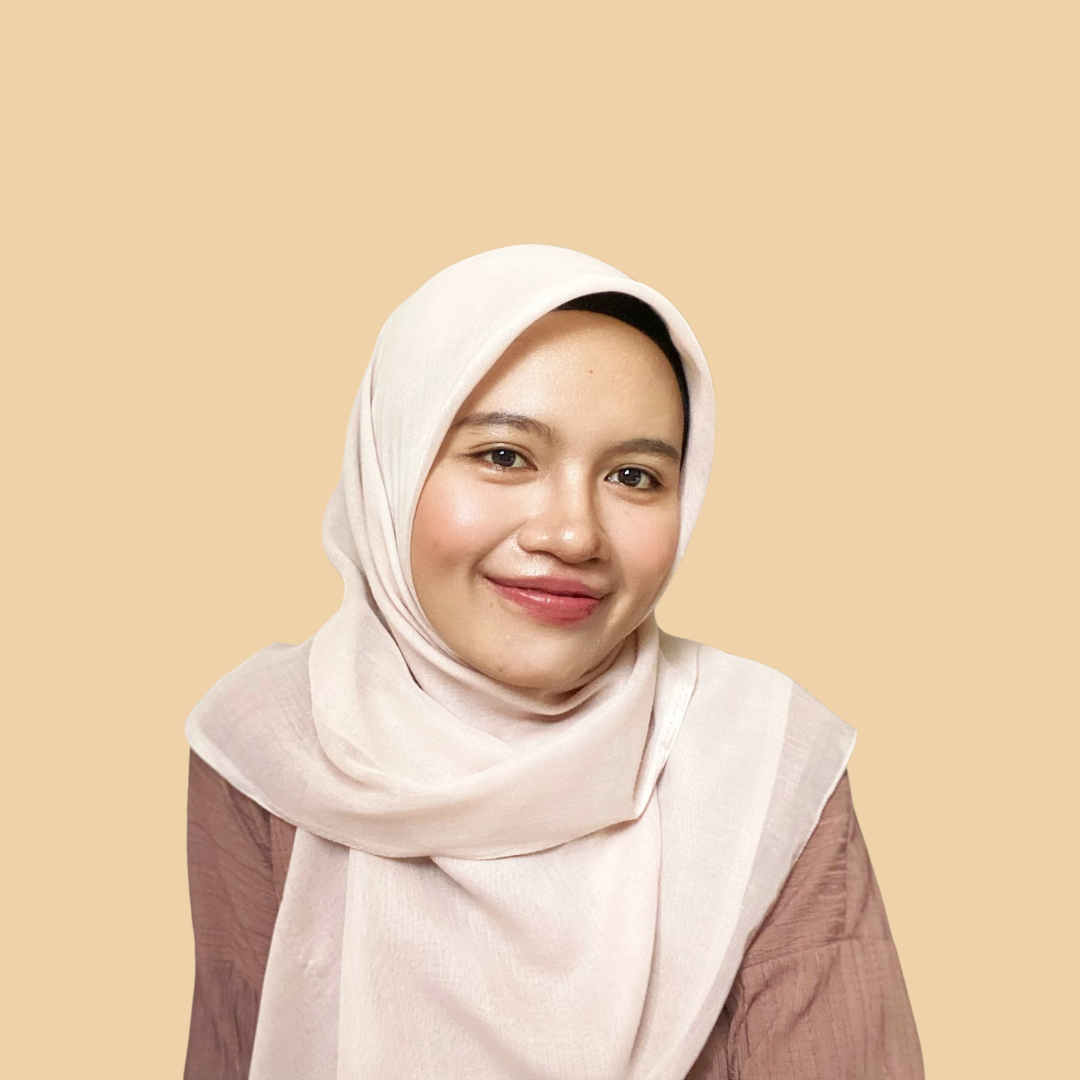
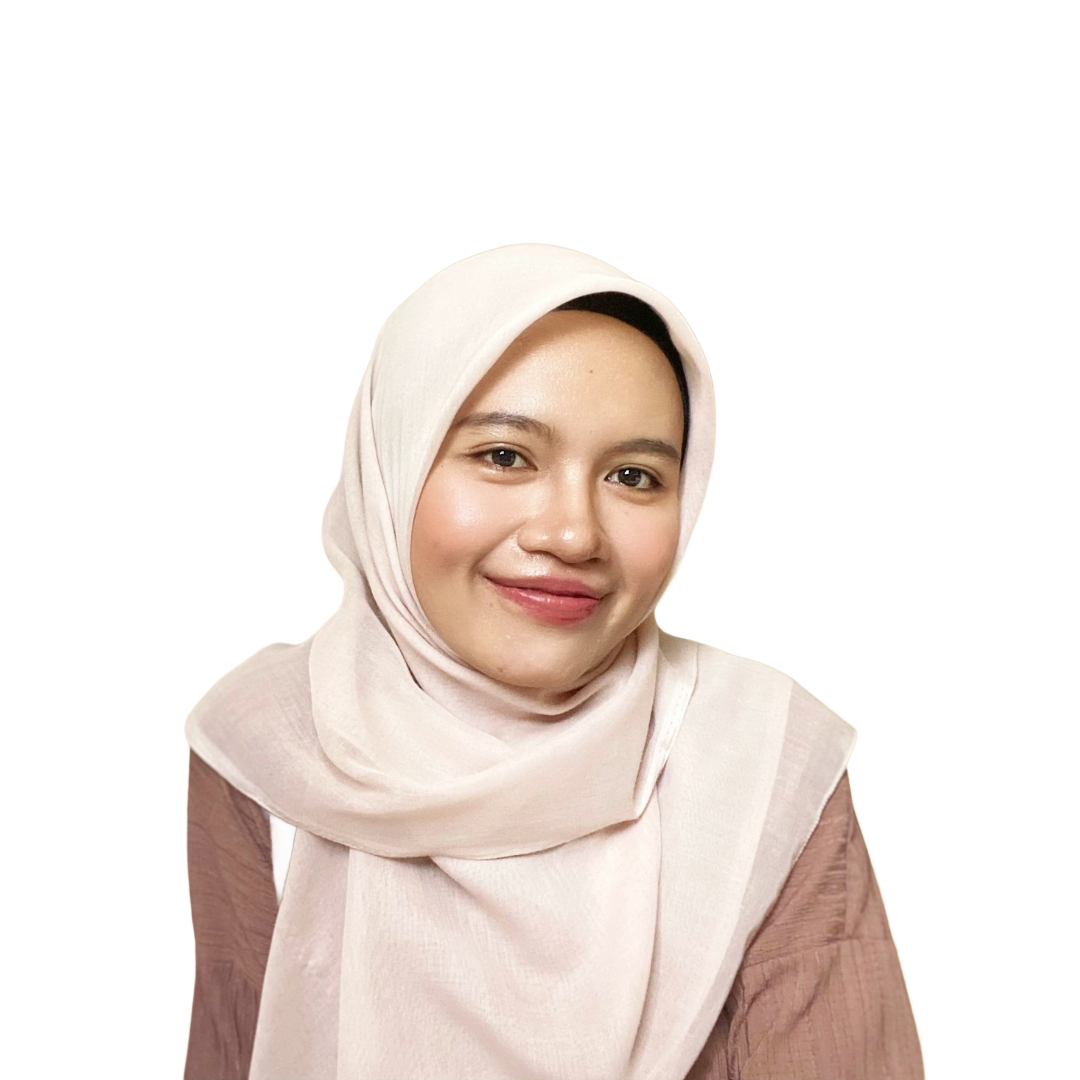
style: change layout image home

diff --git a/src/components/organisms/Home.jsx b/src/components/organisms/Home.jsx
@@ -26,7 +26,7 @@ function Home() {
             <p className='mb-2 text-ygPurple dark:text-primary100'>I am a</p>
             <TypeAnimation
               className='text-transparent gradient-secondary bg-clip-text'
-              sequence={[' Front End Web Developer', 2000, 'Admin', 2000]}
+              sequence={[' Front End Web Developer', 2000, 'Customer Service', 2000]}
               wrapper='span'
               speed={50}
               repeat={Infinity}
@@ -66,23 +66,105 @@ function Home() {
             </svg>
           </Button>
         </motion.div>
-        <motion.div
-          initial='hidden'
-          whileInView='visible'
-          viewport={{ once: false }}
-          transition={{ duration: 0.7, amount: 0.5 }}
-          variants={{
-            visible: { opacity: 1, scale: 1 },
-            hidden: { opacity: 0, scale: 0 },
-          }}
-          className='flex self-center max-w-lg rounded-lg md:justify-end md:flex gradient-primary'
-        >
+
+        <div className='relative flex items-center justify-center mt-5 md:mt-0'>
+          <svg
+            viewBox='0 0 100 100'
+            xmlns='http://www.w3.org/2000/svg'
+            className='absolute w-[300px] lg:w-[450px] -mt-14 md:-mt-28 -mr-28 md:-mr-32 opacity-10'
+          >
+            <defs>
+              <linearGradient
+                id='fill'
+                x1='0%'
+                y1='0%'
+                x2='100%'
+                y2='0%'
+                gradientTransform='rotate(45 0.5 0.5)'
+              >
+                <stop
+                  offset='0%'
+                  stopColor='#4F46E5'
+                />
+                <stop
+                  offset='100%'
+                  stopColor='#FF7AF9'
+                />
+              </linearGradient>
+            </defs>
+
+            <path
+              d='M83,69Q72,88,51.5,85.5Q31,83,17.5,66.5Q4,50,15.5,30Q27,10,49.5,11Q72,12,83,31Q94,50,83,69Z'
+              fill='url(#fill)'
+            />
+          </svg>
+          <svg
+            viewBox='0 0 100 100'
+            xmlns='http://www.w3.org/2000/svg'
+            className='absolute w-[300px] lg:w-[450px] -mt-10 md:-mt-16 -mr-16 md:-mr-20 opacity-10'
+          >
+            <defs>
+              <linearGradient
+                id='fill'
+                x1='0%'
+                y1='0%'
+                x2='100%'
+                y2='0%'
+                gradientTransform='rotate(45 0.5 0.5)'
+              >
+                <stop
+                  offset='0%'
+                  stopColor='#4F46E5'
+                />
+                <stop
+                  offset='100%'
+                  stopColor='#FF7AF9'
+                />
+              </linearGradient>
+            </defs>
+
+            <path
+              d='M83,69Q72,88,51.5,85.5Q31,83,17.5,66.5Q4,50,15.5,30Q27,10,49.5,11Q72,12,83,31Q94,50,83,69Z'
+              fill='url(#fill)'
+            />
+          </svg>
+          <svg
+            viewBox='0 0 100 100'
+            xmlns='http://www.w3.org/2000/svg'
+            className='absolute w-[300px] lg:w-[450px]'
+          >
+            <defs>
+              <linearGradient
+                id='fill'
+                x1='0%'
+                y1='0%'
+                x2='100%'
+                y2='0%'
+                gradientTransform='rotate(45 0.5 0.5)'
+              >
+                <stop
+                  offset='0%'
+                  stopColor='#4F46E5'
+                />
+                <stop
+                  offset='100%'
+                  stopColor='#FF7AF9'
+                />
+              </linearGradient>
+            </defs>
+
+            <path
+              d='M83,69Q72,88,51.5,85.5Q31,83,17.5,66.5Q4,50,15.5,30Q27,10,49.5,11Q72,12,83,31Q94,50,83,69Z'
+              fill='url(#fill)'
+            />
+          </svg>
+
           <img
             src='/img/sipa.png'
-            alt='photo sipa'
-            className='relative p-1.5 rounded-lg w-48 lg:w-72'
+            alt='Syifa'
+            className='relative z-10 w-80 md:w-[380px] lg:w-[500px] -mt-20 md:-mt-36 lg:-mt-44'
           />
-        </motion.div>
+        </div>
       </div>
     </section>
   );
